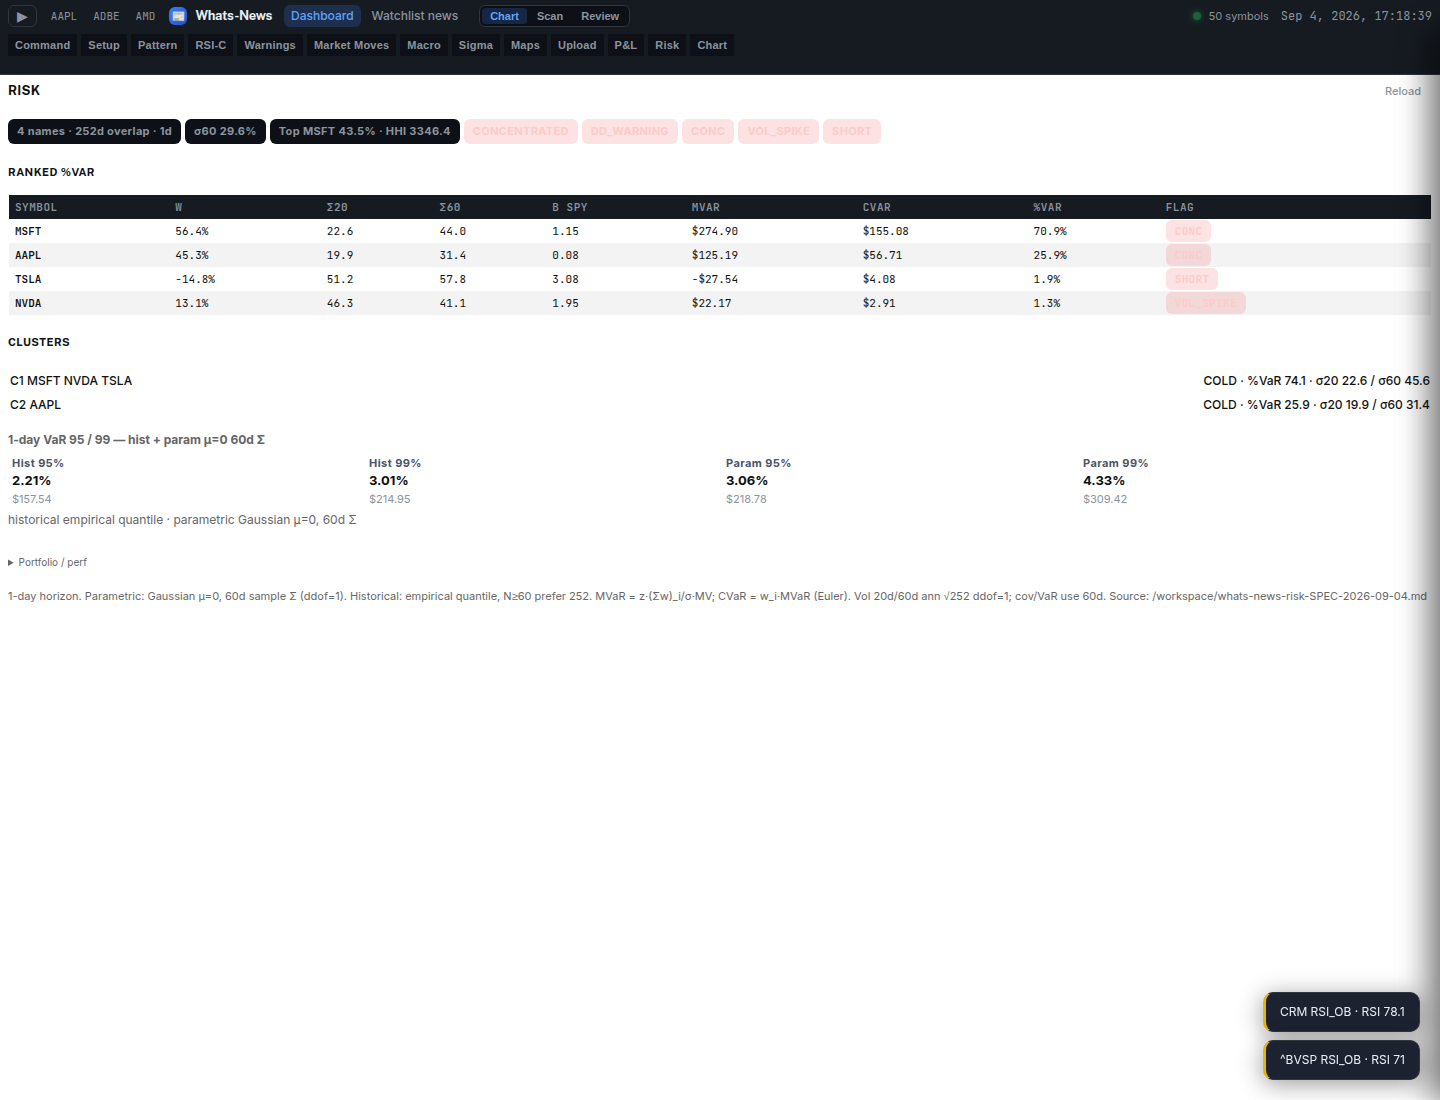
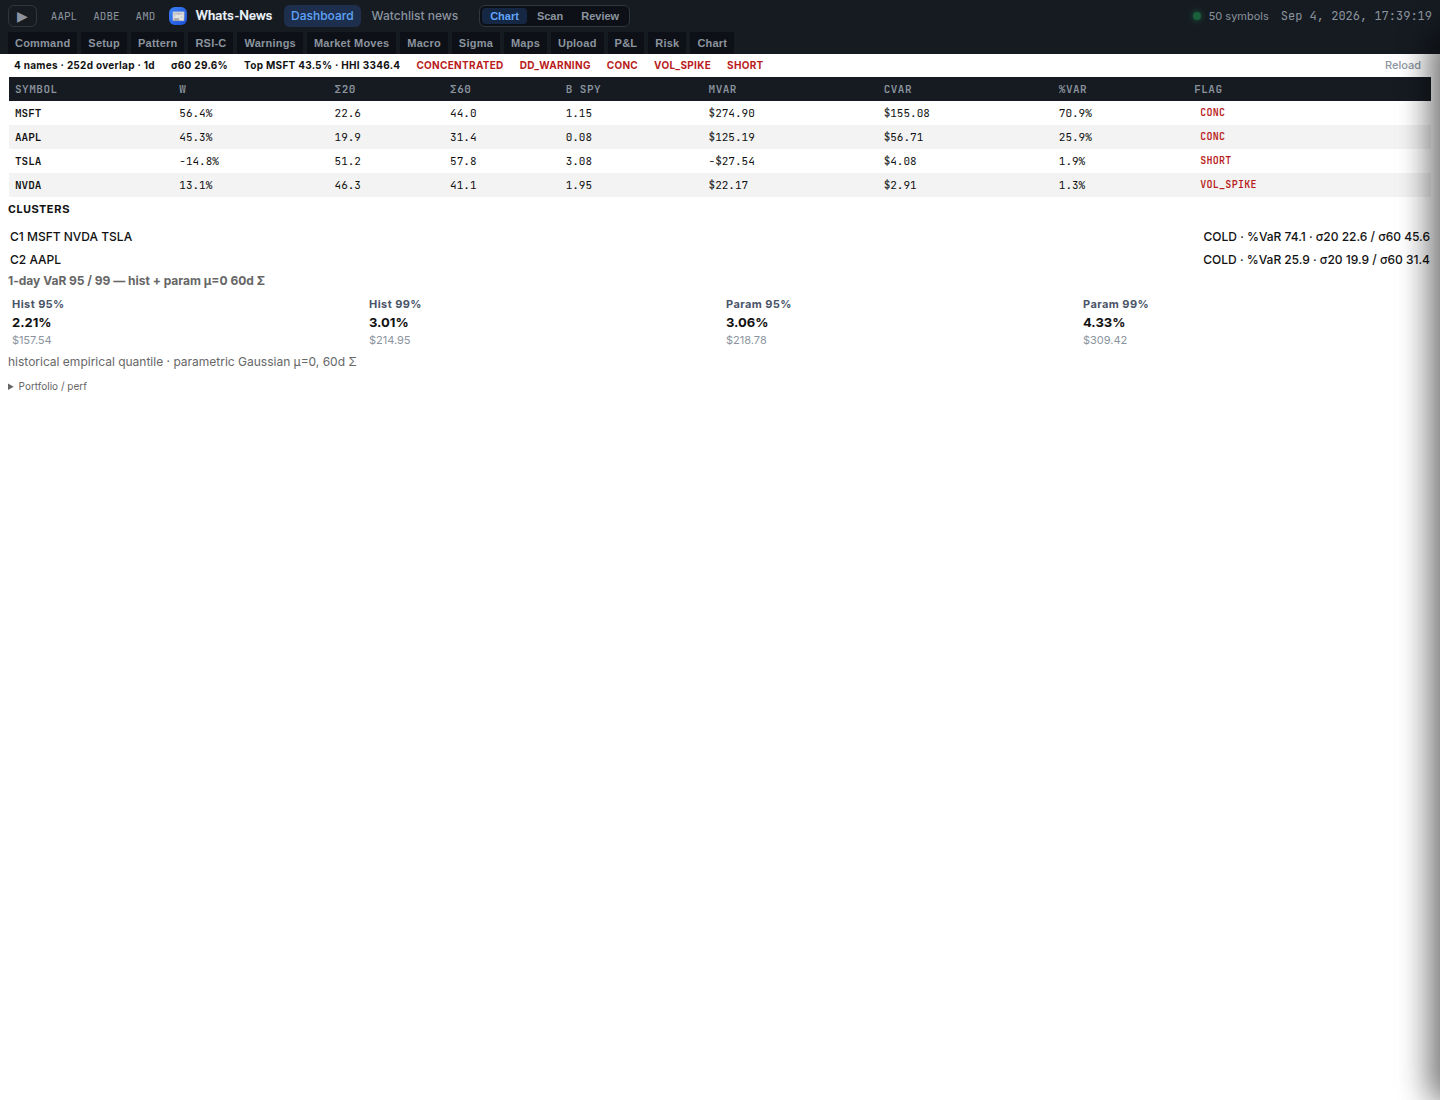
Ship flush Risk/Warnings/Scans screenshots
IA bar to chips/takeaways is 0px. Scan list is full-bleed column.
Ink chips, no leftover wrap-stretch hole. Local Machine re-Sims.

diff --git a/styles/theme.css b/styles/theme.css
@@ -491,6 +491,9 @@ body.workspace-scan .main {
   padding: 0 !important;
   gap: 0 !important;
   margin: 0 !important;
+  flex-flow: column nowrap !important;
+  align-content: flex-start !important;
+  align-items: stretch !important;
 }
 body.board-focus .desk-ia-bar,
 body.board-focus .main-nav-tabs.desk-ia-bar,
@@ -572,6 +575,12 @@ body.workspace-scan #chart-area {
   border: none !important;
   border-radius: 0;
   font-size: 10px;
+  background: transparent !important;
+  color: var(--ink) !important;
+}
+.risk-container .pnl-chip.is-alert {
+  background: transparent !important;
+  color: #b91c1c !important;
 }
 .risk-spec-title {
   margin: 0 !important;
@@ -596,7 +605,7 @@ body.workspace-scan #chart-area {
 }
 body.workspace-scan #scanner-area {
   display: flex !important;
-  flex: 1 1 100% !important;
+  flex: 1 1 auto !important;
   width: 100% !important;
   max-width: none !important;
   min-height: 0 !important;
@@ -606,6 +615,10 @@ body.workspace-scan #scanner-area {
   margin: 0 !important;
   background: var(--paper) !important;
   color: var(--ink) !important;
+}
+body.workspace-scan .desk-ia-bar {
+  width: 100% !important;
+  flex: 0 0 22px !important;
 }
 .scan-lens-bar { height: 22px; margin: 0 !important; padding: 0 !important; }
 .scan-breadth { margin: 0 !important; padding: 0 !important; }

diff --git a/index.html b/index.html
@@ -6,7 +6,7 @@
   <title>Whats-News – Watchlist Dashboard</title>
   <meta name="description" content="Whats-News: local watchlist dashboard with Yahoo Finance charts, analysis, and real headlines." />
   <link rel="stylesheet" href="styles/main.css" />
-  <link rel="stylesheet" href="styles/theme.css?v=42" />
+  <link rel="stylesheet" href="styles/theme.css?v=44" />
   <!-- TradingView Lightweight Charts -->
   <script src="https://unpkg.com/lightweight-charts@4.1.3/dist/lightweight-charts.standalone.production.js"></script>
   <!-- Chart.js for statistics -->

diff --git a/tests/test_desk_density.py b/tests/test_desk_density.py
@@ -73,6 +73,7 @@ class DeskDensityTests(unittest.TestCase):
         self.assertIn("HARD spacing", self.blob)
         self.assertIn("body.board-focus #empty-state", self.blob)
         self.assertIn("body.workspace-scan #chart-area", self.blob)
+        self.assertIn("flex-flow: column nowrap !important", self.blob)
         self.assertIn('class="risk-title visually-hidden"', self.blob)
         self.assertIn('class="mm-head visually-hidden"', self.blob)
 
